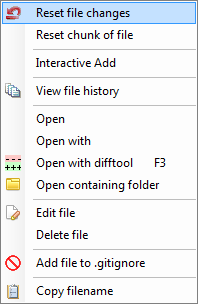
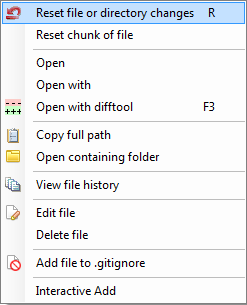
Staging selected lines. Issue #57

Changed region(s): [[0.0, 0.0, 1.0, 1.0], [0.8182, 0.0296, 0.8788, 0.0592]]

diff --git a/source/commit.rst b/source/commit.rst
@@ -18,7 +18,7 @@ Commit changes
 
 Changes can be committed to the local repository. Unlike most other source control management systems you do not need to 
 checkout files before you start editing. You can just start editing files, and review all the changes you made in the commit 
-dialog later. When you open de commit dialog, all changes are listed in the top-left. 
+dialog later. When you open the commit dialog, all changes are listed in the top-left. 
 
 .. image:: /images/commit_dialog.png
 
@@ -34,30 +34,83 @@ There are three kinds of changes:
 +----------+----------------------------------------------------------------------------------------------------------------+
 
 When you rename or move a file Git will notice that this file has been moved, but currently Git Extensions does not show 
-this in the commit dialog. Occasionally you will need to undo the file change. This can be done in the context menu of any 
-unstaged file.
-
-.. image:: /images/reset_changes.png
+this in the commit dialog. 
 
 During your initial commit there are probably lots of files you do not want to be tracked. You can ignore these files by not 
-staging them, but they will show every time. You could also add them to the .gitignore file of you repository. Files that are 
+staging them, but they will show every time. You can instead add them to the ``.gitignore`` file of your repository. Files that are 
 in the ``.gitignore`` file will not show up in the commit dialog again. You can open the ``.gitignore`` editor from the menu 
 ``Working dir changes`` by selecting ``Edit ignored files``.
 
-.. image:: /images/show_untracked.png
+.. image:: /images/commit_menu_edit_ignored.png
 
-You need to stage the changes you want to commit by pressing the ‘Stage selected files’ button. You also need to stage deleted 
-files because you stage the change and not the file. When all the changes you want to commit are staged, enter a commit message 
-and press the commit button.
+Staging Changes
+^^^^^^^^^^^^^^^
+
+The changes that you have made to your working directory are not automatically included in a commit. You must choose
+which of the changed files, or individual changes from within those files, will be included in the commit by "staging" the
+changes in Git Extensions. Staging changes in Git Extensions is the same as using ``git add`` on the Git command line.
+
+You can stage the changes you want to commit by selecting the files in the top-left or "Unstaged changes" pane and pressing
+the ``Stage`` button or pressing the ``[S]`` key. The file entries will move to the lower left or "Staged changes" pane. You
+need to stage deleted files because you stage the change and not the file. If you have staged changes from a file and you
+wish to exclude those changes from the commit, select the entry in the staged changes pane and press the ``Unstage``
+button or press the ``[U]`` key.
+
+If the file that is selected in either the unstaged or staged changes pane is text format, Git Extensions will show a
+Git "diff" view in the right side pane of the window.
+
+Staging Selected Lines
+^^^^^^^^^^^^^^^^^^^^^^
+
+You do not have to commit all of the changes in a text format file in one commit. You can select and stage individual lines
+from within a file such that only the chosen lines will be included in your next commit; the remaining changes in the file
+will appear as unstaged changes for the next commit.
+
+In the diff view on the right, select the line or lines that you want to stage then right-click and choose ``Stage selected
+line(s)`` or press the ``[S]`` key. The file will now appear in both the staged changes and unstaged changes panes on the left
+since now there are both staged and unstaged changes in the same file. The change that was selected will disappear from the
+diff view on the right because the diff view is showing only the unstanged changes.
+
+To see the line changes that have been staged select the entry for the file in the staged changes pane. To unstage selected
+changed lines from a file, select that file in the staged changes pane, then select the line or lines in the diff view, right
+-click, and choose ``Unstage selected line(s)`` or press the ``[U]`` key.
+
+.. note:: If you select an entire line including the end-of-line character then staging or unstaging that line will include
+    both the selected line and the next line. To select a single line to stage or unstage you may simply click onto the line
+    without selecting any particular characters.
+
+.. note:: Staging and unstaging individual lines from a file does not change the file itself. It is simply choosing which 
+    changes from within that file will be included in the next commit.
+
+Undoing or Resetting Changes
+^^^^^^^^^^^^^^^^^^^^^^^^^^^^
+
+You can undo or reset changes to files from the commit dialog. You can only do this from the top-left or "Unstaged changes"
+pane. If you have already staged the changes then you must first unstage them as described above. To reset the changes in a
+file, select the file in the unstaged changes pane, right-click and choose ``Reset file or directory changes`` or press the
+``[R]`` key.
+
+.. image:: /images/reset_changes.png
+
+You can reset individual changed lines in a similar way to staging and unstaging individual lines, which are described above.
+To reset an individual line, select the line or lines in the diff view on the right then right-click and choose ``Reset
+selected lines`` or press the ``[R]`` key.
+
+.. warning:: Resetting changes modifies the file, discarding either all of the changes or the changes on the selected lines.
+
+Making the commit
+^^^^^^^^^^^^^^^^^
+
+When all the changes you want to commit are staged, enter a commit message into the lower-right pane and press the commit button.
 
 .. image:: /images/commit_dialog_commit.png
 
-It is also possible to add files to you last commit using the ``Amend to last commit`` button. This can be very useful when you 
+It is also possible to add changes to your last commit by checking the ``Amend Commit`` checkbox. This can be very useful when you 
 forgot some changes. This function rewrites history; it deletes the last commit and commits it again including the added 
-changes. Make sure you only use ``Amend to last commit`` when the commit is not yet published to other developers.
+changes. Make sure you only use ``Amend Commit`` when the commit is not yet published to other developers.
 
-There is a build in spelling checker that checks the commit message. Incorrect spelled words are underlined with a red wave line. 
-By right-clicking on the misspelled word you can choose the correct spelling or one of the other options.
+There is a built-in spelling checker that checks the commit message. Incorrectly spelled words are underlined with a wavey red line. 
+Right-click on the misspelled word to choose the correct spelling or choose one of the other options.
 
 .. image:: /images/commit_dialog_spellchecker.png
 
